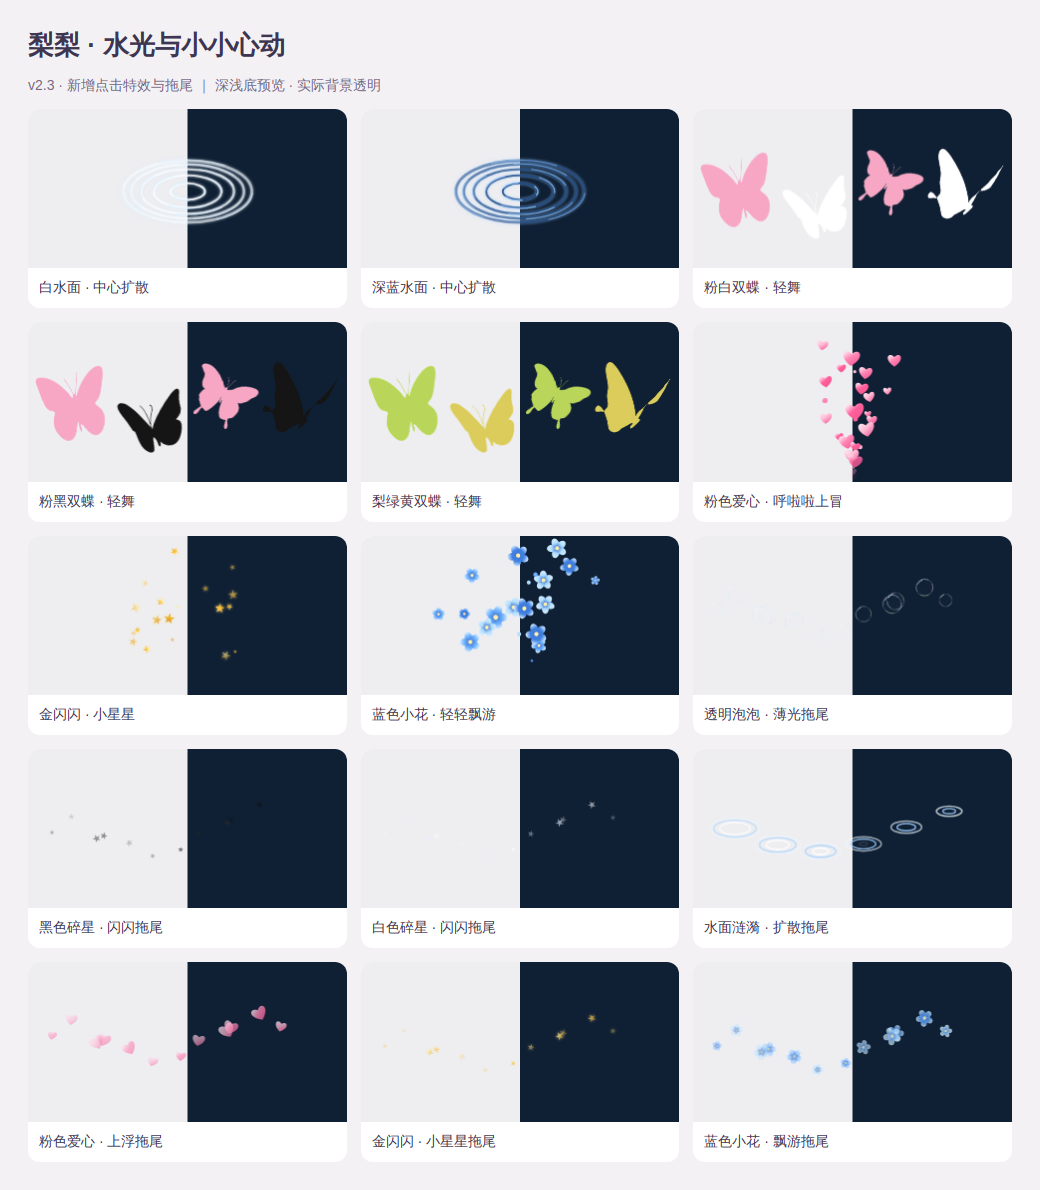
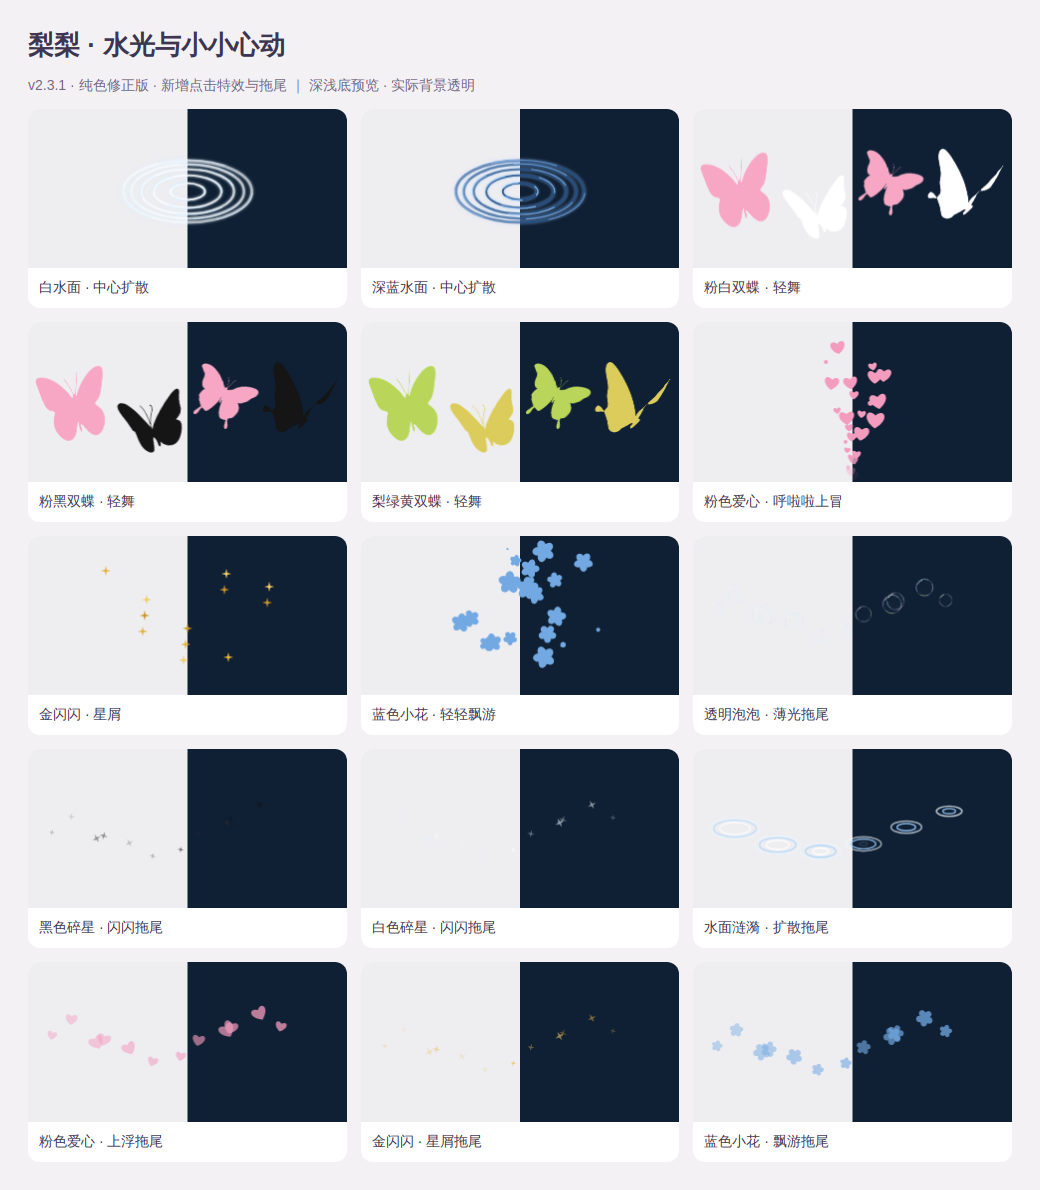
fix: use solid silhouettes and recolor original four-point stardust (v2.3.1)

diff --git a/index.js b/index.js
@@ -3,7 +3,7 @@ import { seasonalPacks } from './seasonal.js';
 import { createGroups } from './groups.js';
 import { ripplePacks, spawnRipples, drawRipple, spawnWaves, drawWave } from './ripples.js';
 
-import { ornamentPacks, ornamentTrails, motifFor, drawMotif, spawnOrnaments, drawOrnament, drawOrnamentTrail } from './ornaments.js';
+import { monochromeStars, drawStar, ornamentPacks, ornamentTrails, motifFor, drawMotif, spawnOrnaments, drawOrnament, drawOrnamentTrail } from './ornaments.js';
 
 function start() {
 
@@ -22,11 +22,11 @@ const packsDefault=[
  {id:'lili-stars',name:'星星糖霜',images:[ASSETS.spark1,ASSETS.spark2],colors:['#fffaf5','#ffd1d4'],count:6,size:23,duration:1100,spread:110,lift:45},
  {id:'lili-pixels',name:'粉白像素雨',images:[],colors:['#ffb7bf','#fff5ef','#f59fa8'],count:10,size:6,duration:900,spread:80,lift:35},
  {"id":"lili-mono","name":"黑白 · 像素碎片","images":[],"colors":["#171717","#ffffff","#999999"],"count":10,"size":7,"duration":1100,"spread":100,"lift":45,"shape":"square","glow":0},
- {"id":"lili-mono-stars","name":"黑白 · 星屑","images":[],"colors":["#171717","#ffffff","#bbbbbb"],"count":10,"size":10,"duration":1100,"spread":100,"lift":45,"shape":"star","glow":0},
+ monochromeStars,
  {"id":"lili-neon","name":"赛博 · 霓虹电光","images":[],"colors":["#00f5ff","#ff21d0","#aa55ff","#f5ff00"],"count":10,"size":7,"duration":1100,"spread":100,"lift":45,"shape":"diamond","glow":12},
  {"id":"lili-neon-stars","name":"赛博 · 星芒脉冲","images":[],"colors":["#ff18b8","#00ffff","#7b61ff"],"count":10,"size":12,"duration":1100,"spread":100,"lift":45,"shape":"star","glow":14},
- {"id":"lili-pear","name":"梨梨 · 甜梨派对","images":[],"colors":["#ffe66d","#a9dc65","#fff5bd"],"count":10,"size":25,"duration":1100,"spread":100,"lift":45,"shape":"square","glow":0,"emojis":["🍐","🍐","💛","💚","✨"]},
- {"id":"lili-pear-garden","name":"梨梨 · 青柠小花园","images":[],"colors":["#f5d84f","#80c75b","#dcf4ac"],"count":10,"size":25,"duration":1100,"spread":100,"lift":45,"shape":"square","glow":0,"emojis":["🍐","🍋","🌼","🍀","🌱","💚"]},
+ {"id":"lili-pear","name":"梨梨 · 甜梨派对","images":[],"colors":["#ffe66d","#a9dc65","#fff5bd"],"count":10,"size":25,"duration":1100,"spread":100,"lift":45,"shape":"square","glow":0,"motifs":["pear","pear","heart","heart","star"]},
+ {"id":"lili-pear-garden","name":"梨梨 · 青柠小花园","images":[],"colors":["#f5d84f","#80c75b","#dcf4ac"],"count":10,"size":25,"duration":1100,"spread":100,"lift":45,"shape":"square","glow":0,"motifs":["pear","leaf","flower","leaf","flower","heart"]},
  {"id":"lili-yellow-green","name":"黄绿 · 汽水泡泡","images":[],"colors":["#ffdc4f","#9ad95c","#fff3ad","#d1efa2"],"count":10,"size":8,"duration":1100,"spread":100,"lift":45,"shape":"circle","glow":0}
 , ...butterflyPacks, ...seasonalPacks, ...ripplePacks, ...ornamentPacks
 ];
@@ -38,6 +38,7 @@ function validatePack(p){
  const bounds={count:[1,40],size:[3,72],duration:[250,2500],spread:[10,220],lift:[0,180]};
  const v={id:typeof p.id==='string'&&/^[a-zA-Z0-9_-]{1,64}$/.test(p.id)?p.id:'custom-'+randSeed().toString(36),name:p.name.trim(),images:[...p.images],colors:[...p.colors]};
  if(p.emojis!==undefined){if(!Array.isArray(p.emojis)||p.emojis.length>12||p.emojis.some(e=>typeof e!=='string'||!e.trim()||[...e].length>16))throw Error('emoji 最多 12 项，每项最多 16 个字符。');v.emojis=[...p.emojis];}
+ if(p.motifs!==undefined){if(!Array.isArray(p.motifs)||!p.motifs.length||p.motifs.length>12||p.motifs.some(m=>!['pear','leaf','flower','heart','star'].includes(m)))throw Error('不支持的纯色图案。');v.motifs=[...p.motifs];}
  if(p.shape!==undefined){if(!['square','circle','diamond','star'].includes(p.shape))throw Error('不支持的粒子形状。');v.shape=p.shape;}
  if(p.motion!==undefined){if(!['flutter','fall','bubble','snow','music','ripple','wave','fountain','glitter','blossom'].includes(p.motion))throw Error('不支持的运动方式。');v.motion=p.motion;}
  if(p.paired!==undefined){if(typeof p.paired!=='boolean'||(p.paired&&(p.images.length<2||p.images.length%2)))throw Error('双蝶标记无效。');v.paired=p.paired;}
@@ -200,13 +201,14 @@ function drawHeart(x,y,size,color){ctx.fillStyle=color;const u=size/7;for(const 
 function drawParticle(p,size){
  ctx.fillStyle=p.color;ctx.shadowColor=p.color;ctx.shadowBlur=p.glow||0;
  if(p.shape==='circle'){ctx.beginPath();ctx.arc(0,0,size/2,0,Math.PI*2);ctx.fill();}
- else if(p.shape==='star'||p.shape==='diamond'){ctx.beginPath();const star=p.shape==='star',n=star?8:4;for(let i=0;i<n;i++){const a=i*Math.PI*2/n-Math.PI/2,r=size/2*(star&&i%2?.28:1);i?ctx.lineTo(Math.cos(a)*r,Math.sin(a)*r):ctx.moveTo(Math.cos(a)*r,Math.sin(a)*r);}ctx.closePath();ctx.fill();}
+ else if(p.shape==='star')drawStar(ctx,size);
+ else if(p.shape==='diamond'){ctx.beginPath();for(let i=0;i<4;i++){const a=i*Math.PI/2-Math.PI/2,r=size/2;i?ctx.lineTo(Math.cos(a)*r,Math.sin(a)*r):ctx.moveTo(Math.cos(a)*r,Math.sin(a)*r);}ctx.closePath();ctx.fill();}
  else ctx.fillRect(-size/2,-size/2,size,size);
  ctx.shadowBlur=0;
 }
 function frame(now){raf=0;if(stopped||!ctx)return;viewport();ctx.clearRect(0,0,cw,ch);particles=particles.filter(p=>now-p.start<p.duration);drawTrails(now);const spawned=[];
  for(const p of particles){if(p.kind==='ornament'){drawOrnament(ctx,p,now);continue;}if(p.kind==='wave'){drawWave(ctx,p,now);continue;}if(p.kind==='ripple'){drawRipple(ctx,p,now);continue;}if(p.kind==='symbol'){drawSymbol(p,now);continue;}if(p.kind==='flutter'||p.kind==='twinkle'){drawFlutter(p,now,spawned);continue;}if(p.kind==='petal'||p.kind==='dust'||p.kind==='bubble'||p.kind==='drop'){drawMore(p,now,spawned);continue;}const t=Math.max(0,(now-p.start)/p.duration),ease=1-Math.pow(1-t,3),x=p.x+p.dx*ease,y=p.y+p.dy*ease+12*t*t;ctx.save();ctx.translate(x,y);ctx.rotate(p.rotation*t);ctx.globalAlpha=Math.min(1,t/.08)*Math.pow(1-t,1.25);const size=p.size*(.6+Math.sin(Math.min(1,t*2)*Math.PI/2)*.4);
- if(p.texture?.ready)ctx.drawImage(p.texture.image,-size/2,-size/2,size,size);else if(p.emoji){ctx.font=`${size}px "Apple Color Emoji","Segoe UI Emoji","Noto Color Emoji",sans-serif`;ctx.textAlign='center';ctx.textBaseline='middle';ctx.fillText(p.emoji,0,0);}else if(p.kind==='heart')drawHeart(0,0,size,p.color);else{drawParticle(p,size);}ctx.restore();}
+ if(p.texture?.ready)ctx.drawImage(p.texture.image,-size/2,-size/2,size,size);else if(p.motif){drawMotif(ctx,p.motif,size,p.color);}else if(p.emoji){ctx.font=`${size}px "Apple Color Emoji","Segoe UI Emoji","Noto Color Emoji",sans-serif`;ctx.textAlign='center';ctx.textBaseline='middle';ctx.fillText(p.emoji,0,0);}else if(p.kind==='heart')drawHeart(0,0,size,p.color);else{drawParticle(p,size);}ctx.restore();}
  if(spawned.length)particles.push(...spawned.slice(0,Math.max(0,160-particles.length)));
  if(particles.length||trails.length)raf=host.requestAnimationFrame(frame);else{ctx.clearRect(0,0,cw,ch);try{layer.hidePopover();}catch{}}}
 function burst(x,y,target,force=false){
@@ -217,8 +219,9 @@ function burst(x,y,target,force=false){
  if(p.motion==='ripple'||p.motion==='wave'){particles.push(...(p.motion==='wave'?spawnWaves:spawnRipples)(p,x-rect.left,y-rect.top,num,now,prefs.scale,prefs.lightweight));particles=particles.slice(-160);if(!raf)raf=host.requestAnimationFrame(frame);updateStatus();return;}
  if(p.motion&&p.images.length){(p.motion==='fall'?spawnFall:p.motion==='bubble'?spawnBubble:p.motion==='snow'||p.motion==='music'?spawnSymbols:spawnFlutter)(p,x-rect.left,y-rect.top,num,now);particles=particles.slice(-160);if(!raf)raf=host.requestAnimationFrame(frame);updateStatus();return;}
  for(let i=0;i<num;i++){const angle=Math.random()*Math.PI*2,dist=p.spread*(.35+Math.random()*.65),hasImage=p.images.length&&i<Math.min(3,Math.ceil(num*.55)),tex=hasImage?loadImage(p.images[i===0||p.images.length===1?0:1+Math.floor(Math.random()*(p.images.length-1))]):null;
+ const motif=p.motifs?.length?p.motifs[i%p.motifs.length]:null;
  const emoji=p.emojis?.length&&i<Math.min(3,Math.ceil(num*.55))?p.emojis[Math.floor(Math.random()*p.emojis.length)]:null;
- particles.push({emoji,shape:p.shape,glow:prefs.lightweight?0:p.glow,x:x-rect.left,y:y-rect.top,dx:Math.cos(angle)*dist,dy:Math.sin(angle)*dist-p.lift,start:now,duration:p.duration*(.85+Math.random()*.3),size:(tex||emoji?p.size:p.images.length||p.emojis?.length?4+Math.random()*3:p.size)*prefs.scale,color:p.colors[i%p.colors.length],texture:tex,kind:tex?'heart':'dot',rotation:(Math.random()-.5)*1.2});}
+ particles.push({emoji,motif,shape:p.shape,glow:prefs.lightweight?0:p.glow,x:x-rect.left,y:y-rect.top,dx:Math.cos(angle)*dist,dy:Math.sin(angle)*dist-p.lift,start:now,duration:p.duration*(.85+Math.random()*.3),size:(tex||emoji||motif?p.size:p.images.length||p.emojis?.length?4+Math.random()*3:p.size)*prefs.scale,color:p.colors[i%p.colors.length],texture:tex,kind:tex?'heart':'dot',rotation:(Math.random()-.5)*1.2});}
  particles=particles.slice(-36);if(!raf)raf=host.requestAnimationFrame(frame);updateStatus();
 }
 function drawTrails(now){
@@ -269,6 +272,7 @@ function statusText(){const imgs=selected().images.map((src,i)=>loadImage(src,se
 function updateStatus(){const n=doc.querySelector('#lpx-status');if(n)n.textContent=statusText();}
 function motifPreview(motif,colors){const c=el('canvas');c.width=280;c.height=160;c.style.cssText='width:100%;height:100%;display:block';const cx=c.getContext('2d');for(let i=0;i<5;i++){cx.save();cx.translate(34+i*51,82+Math.sin(i*1.7)*25);if(motif==='wave'){drawWave(cx,{x:0,y:0,start:0,duration:1000,radius:27,scale:.65,colors,rings:3},550);}else drawMotif(cx,motif,motif==='bubble'?42:25,colors[i%colors.length],i);cx.restore();}return c;}
 function thumbnail(pack,interactive=false){const n=el(interactive?'button':'div','lpx-thumb');if(interactive){n.type='button';n.setAttribute('aria-label','预览并使用 '+pack.name);n.dataset.lpxPreview='true';}
+ if(pack.motifs?.length){n.classList.add('lpx-contrast');n.append(motifPreview(pack.motifs[0],pack.colors));return n;}
  if(motifFor(pack.motion)){n.classList.add('lpx-contrast');n.append(motifPreview(motifFor(pack.motion),pack.colors));return n;}
  if(pack.motion==='ripple'||pack.motion==='wave'){n.classList.add('lpx-ripple-thumb');n.style.setProperty('--ripple-color',pack.colors[0]);n.style.setProperty('--ripple-shine',pack.colors[1]);for(let i=0;i<3;i++){const ring=el('i','lpx-water-ring');ring.style.setProperty('--ring',i);n.append(ring);}return n;}
  if(pack.motion){n.classList.add('lpx-artwork','lpx-contrast');}
@@ -429,7 +433,7 @@ listen(doc,'visibilitychange',()=>{if(!doc.hidden)recoverEntries();else{particle
 listen(doc,'pointerdown',e=>{if(e.target?.closest?.('#extensionsMenuButton,#extensions-settings-button,#extensionsMenu,#extensions_settings,#extensions_settings2'))recoverEntries();},{capture:true,passive:true});
 listen(doc,'click',e=>{if(e.target?.closest?.('#extensionsMenuButton,#extensions-settings-button'))recoverEntries();},{capture:true,passive:true});
 function destroy(){if(stopped)return;stopped=true;clearTrail();particles=[];abort.abort();observer.disconnect();host.clearInterval(interval);timers.forEach(id=>host.clearTimeout(id));if(raf)host.cancelAnimationFrame(raf);if(scanFrame)host.cancelAnimationFrame(scanFrame);closeManager();layer.remove();sheet.remove();panelEntry?.remove();wandEntry?.remove();disposers.forEach(fn=>{try{fn();}catch{}});if(host[KEY]?.destroy===destroy)delete host[KEY];if(host.__liSparkling?.destroy===destroy){delete host.__liSparkling;host.dispatchEvent(new host.Event('li-sparkling:change'));}}
-host[KEY]={owner:'li-sparkling',apiVersion:1,version:'2.3.0',isAvailable:()=>!stopped,mount:container=>openManager('gallery',container),unmount:container=>{if(container&&manager?.parentElement===container)closeManager();},destroy,openManager,importPacks,renamePack,deletePack,exportPack:async()=>({format:'lili-click-effects',version:1,packs:[await portablePack(selected())]}),getDiagnostics:()=>({hits:totalHits,input:lastInput,particles:particles.length,trails:trails.length,trail:selectedTrail().id,trailEnabled:prefs.trailEnabled,canvasReady:!!ctx,theme:themeActive(),pack:selected().id,images:selected().images.map((s,i)=>({ready:loadImage(s,selected().hues?.[i]||0).ready,error:loadImage(s,selected().hues?.[i]||0).error}))})};
+host[KEY]={owner:'li-sparkling',apiVersion:1,version:'2.3.1',isAvailable:()=>!stopped,mount:container=>openManager('gallery',container),unmount:container=>{if(container&&manager?.parentElement===container)closeManager();},destroy,openManager,importPacks,renamePack,deletePack,exportPack:async()=>({format:'lili-click-effects',version:1,packs:[await portablePack(selected())]}),getDiagnostics:()=>({hits:totalHits,input:lastInput,particles:particles.length,trails:trails.length,trail:selectedTrail().id,trailEnabled:prefs.trailEnabled,canvasReady:!!ctx,theme:themeActive(),pack:selected().id,images:selected().images.map((s,i)=>({ready:loadImage(s,selected().hues?.[i]||0).ready,error:loadImage(s,selected().hues?.[i]||0).error}))})};
 host.__liSparkling=host[KEY];
 host.dispatchEvent(new host.Event('li-sparkling:change'));
 if(window!==host){

diff --git a/ornaments.js b/ornaments.js
@@ -1,27 +1,35 @@
 // Code-drawn artwork: transparent, resolution independent, no emoji substitution.
+export const monochromeStars = {id:'lili-mono-stars',name:'黑白 · 星屑',images:[],colors:['#171717','#ffffff','#bbbbbb'],count:10,size:10,duration:1100,spread:100,lift:45,shape:'star',glow:0};
+export function drawStar(ctx,size){
+ ctx.beginPath();for(let i=0;i<8;i++){const a=i*Math.PI/4-Math.PI/2,r=size/2*(i%2?.28:1);i?ctx.lineTo(Math.cos(a)*r,Math.sin(a)*r):ctx.moveTo(Math.cos(a)*r,Math.sin(a)*r);}ctx.closePath();ctx.fill();
+}
 export const ornamentPacks = [
- {id:'lili-heart-fountain',name:'粉色爱心 · 呼啦啦上冒',motion:'fountain',colors:['#ff87b5','#ffbad4','#ff5f9b'],size:22,lift:180,spread:75},
- {id:'lili-gold-stars',name:'金闪闪 · 小星星',motion:'glitter',colors:['#ffc83d','#ffed9b','#d99a20'],size:15,lift:55,spread:115},
- {id:'lili-blue-flowers',name:'蓝色小花 · 轻轻飘游',motion:'blossom',colors:['#6cafff','#b4dfff','#4383e5'],size:23,lift:65,spread:120},
+ {id:'lili-heart-fountain',name:'粉色爱心 · 呼啦啦上冒',motion:'fountain',colors:['#f49cbd'],size:22,lift:180,spread:75},
+ {id:'lili-blue-flowers',name:'蓝色小花 · 轻轻飘游',motion:'blossom',colors:['#72a9e2'],size:23,lift:65,spread:120},
 ].map(p=>({...p,images:[],count:12,duration:2300,shape:'star',glow:0}));
+// Exact recolor of the existing monochrome preset, including movement and size.
+ornamentPacks.splice(1,0,{...monochromeStars,id:'lili-gold-stars',name:'金闪闪 · 星屑',colors:['#e6b43e','#f4cc65','#c9952b']});
 export const ornamentTrails = [
  {id:'bubble',name:'透明泡泡 · 薄光拖尾',motif:'bubble',colors:['#c3edff','#ffd6ee','#fff3c6']},
  {id:'stars-black',name:'黑色碎星 · 闪闪拖尾',motif:'star',colors:['#111111','#292929','#080808']},
  {id:'stars-white',name:'白色碎星 · 闪闪拖尾',motif:'star',colors:['#ffffff','#e7efff','#ffffff']},
  {id:'water',name:'水面涟漪 · 扩散拖尾',motif:'wave',colors:['#edf8ff','#9ecfff','#ffffff']},
- {id:'hearts-pink',name:'粉色爱心 · 上浮拖尾',motif:'heart',colors:['#ff87b5','#ffbad4','#ff5f9b']},
- {id:'stars-gold',name:'金闪闪 · 小星星拖尾',motif:'gold',colors:['#ffc83d','#ffed9b','#d99a20']},
- {id:'flowers-blue',name:'蓝色小花 · 飘游拖尾',motif:'flower',colors:['#6cafff','#b4dfff','#4383e5']},
+ {id:'hearts-pink',name:'粉色爱心 · 上浮拖尾',motif:'heart',colors:['#f49cbd']},
+ {id:'stars-gold',name:'金闪闪 · 星屑拖尾',motif:'gold',colors:['#e6b43e','#f4cc65','#c9952b']},
+ {id:'flowers-blue',name:'蓝色小花 · 飘游拖尾',motif:'flower',colors:['#72a9e2']},
 ].map(p=>({...p,glow:0}));
 export const motifFor = motion => ({fountain:'heart',glitter:'gold',blossom:'flower'})[motion];
 export function drawMotif(ctx,motif,size,color,phase=0){
  ctx.save();ctx.scale(size/24,size/24);ctx.fillStyle=color;
  if(motif==='heart'){
-  const g=ctx.createLinearGradient(-6,-10,8,10);g.addColorStop(0,'#ffe1ed');g.addColorStop(.4,color);g.addColorStop(1,'#f45591');ctx.fillStyle=g;
   ctx.beginPath();ctx.moveTo(0,10);ctx.bezierCurveTo(-19,-2,-10,-16,0,-6);ctx.bezierCurveTo(10,-16,19,-2,0,10);ctx.fill();
  }else if(motif==='flower'){
-  for(let i=0;i<5;i++){ctx.save();ctx.rotate(i*Math.PI*2/5);const g=ctx.createLinearGradient(0,-12,0,0);g.addColorStop(0,'#d4eeff');g.addColorStop(.45,color);g.addColorStop(1,'#3e76ce');ctx.fillStyle=g;ctx.beginPath();ctx.ellipse(0,-6,4.4,6.2,0,0,Math.PI*2);ctx.fill();ctx.restore();}
-  ctx.fillStyle='#fff0b0';ctx.beginPath();ctx.arc(0,0,2.4,0,Math.PI*2);ctx.fill();
+  // Fill the entire flower once so translucent petals have no overlap seams.
+  ctx.beginPath();for(let i=0;i<5;i++){ctx.save();ctx.rotate(i*Math.PI*2/5);ctx.moveTo(4.6,-6);ctx.ellipse(0,-6,4.6,6,0,0,Math.PI*2);ctx.closePath();ctx.restore();}ctx.moveTo(4,0);ctx.arc(0,0,4,0,Math.PI*2);ctx.fill();
+ }else if(motif==='pear'){
+  ctx.beginPath();ctx.moveTo(0,-10);ctx.bezierCurveTo(-5,-11,-4,-3,-8,1);ctx.bezierCurveTo(-16,13,16,13,8,1);ctx.bezierCurveTo(4,-3,5,-11,0,-10);ctx.fill();
+ }else if(motif==='leaf'){
+  ctx.beginPath();ctx.moveTo(-10,9);ctx.bezierCurveTo(-12,-5,-2,-13,10,-10);ctx.bezierCurveTo(13,2,6,11,-10,9);ctx.fill();
  }else if(motif==='bubble'){
   // Almost empty center; separate faint film and bright, broken spectral arcs.
   const g=ctx.createRadialGradient(-4,-5,1,0,0,11);g.addColorStop(0,'#e4f8ff02');g.addColorStop(.85,'#d4efff04');g.addColorStop(1,'#d6ebff20');ctx.fillStyle=g;ctx.beginPath();ctx.arc(0,0,11,0,Math.PI*2);ctx.fill();
@@ -29,9 +37,7 @@ export function drawMotif(ctx,motif,size,color,phase=0){
   ['#aeeeffbb','#ffc3e699','#fff0b699','#d4c4ff99'].forEach((c,i)=>{ctx.strokeStyle=c;ctx.lineWidth=.8;ctx.beginPath();ctx.arc(0,0,10.6,i*1.57+phase,i*1.57+1+phase);ctx.stroke();});
   ctx.strokeStyle='#ffffffdd';ctx.lineWidth=1;ctx.beginPath();ctx.arc(-.4,-.4,9.3,3.55,4.45);ctx.stroke();
  }else{
-  ctx.beginPath();for(let i=0;i<10;i++){const a=i*Math.PI/5-Math.PI/2,r=i%2?4.2:11;ctx.lineTo(Math.cos(a)*r,Math.sin(a)*r);}ctx.closePath();
-  if(motif==='gold'){const g=ctx.createLinearGradient(-7,-10,6,10);g.addColorStop(0,'#fff6c0');g.addColorStop(.35,color);g.addColorStop(.7,'#f4b52b');g.addColorStop(1,'#b87d15');ctx.fillStyle=g;ctx.shadowColor='#ffe290';ctx.shadowBlur=3;}
-  ctx.fill();
+  drawStar(ctx,24);
  }ctx.restore();
 }
 export function spawnOrnaments(pack,x,y,amount,now,scale,lightweight){

diff --git a/groups.js b/groups.js
@@ -6,7 +6,7 @@ const defaults = [
  ['neon','霓虹'],['pear','梨梨与黄绿'],[ungrouped,'未分组'],
 ].map(([id,name])=>({id,name}));
 function automatic(pack){
- if(pack.motion==='glitter'||pack.id==='lili-mono-stars'||pack.id==='lili-stars')return 'stars';
+ if(pack.id==='lili-gold-stars'||pack.motion==='glitter'||pack.id==='lili-mono-stars'||pack.id==='lili-stars')return 'stars';
  if(pack.motion==='blossom')return 'flowers';
  if(pack.motion==='fountain')return 'hearts';
  if(pack.motion==='ripple'||pack.motion==='wave')return 'rain';

diff --git a/README.md b/README.md
@@ -1,6 +1,6 @@
 # 梨梨 · 点击与拖尾特效
 
-SillyTavern 原生前端扩展，版本 **2.3.0**。点击绽放小图案，滑动留下细细的拖尾；手机触屏和电脑鼠标都可用。
+SillyTavern 原生前端扩展，版本 **2.3.1**。点击绽放小图案，滑动留下细细的拖尾；手机触屏和电脑鼠标都可用。
 
 ## 安装
 
@@ -29,7 +29,7 @@ https://github.com/pear-winter/li-sparkling
 | 音符 | 黑、白两款；包含 ♩ ♪ ♫ ♬ ¶ ♯ ♭，轻轻上浮，伴随同色小粒子 |
 | 雨滴涟漪 | 白雨、深蓝雨；水滴落下、小水珠溅起、三圈椭圆水纹逐渐扩散；另有白色、深蓝色水面扩散，所有波圈固定以点击处为中心；深蓝带细蓝反光，在暗色背景也能看清 |
 | 虹彩泡泡 | 透明中心、薄薄的彩色反光和白色高光；大小不同，上浮、轻晃，破裂时散成小水珠 |
-| 爱心、星星与小花 | 粉色爱心分批向上涌、金色小星星闪烁、蓝色五瓣小花轻轻飘游，伴随细小粒子 |
+| 爱心、星星与小花 | 纯粉色实心爱心分批向上涌、黑白星屑原样换成金色、纯蓝色实心五瓣小花轻轻飘游，伴随细小粒子 |
 | 原有 10 组 | 奶油爱心、星星糖霜、粉白像素、黑白碎片与星屑、霓虹、梨梨黄绿等 |
 | 拖尾 | 奶油粉白、赛博霓虹、黑白银线、黄绿糖丝、蓝紫极光；新增透明薄光泡泡、黑色碎星、白色碎星、水面涟漪、粉色爱心、金色小星星、蓝色小花 |
 
@@ -91,6 +91,12 @@ python3 scripts/generate-seasonal.py
 以上命令重新生成本项目原创的季节/音符 SVG 及 `seasonal.js`；不修改蝴蝶素材。
 
 这些自动检查使用模拟酒馆页面，不能替代每一种酒馆版本、手机 WebView 和第三方主题下的实际使用验证。
+
+## 2.3.1 更新
+
+- 金色星屑直接复用黑白星屑的四尖星形、大小和运动，仅更换颜色；金色拖尾使用相同星形。
+- 爱心与蓝色小花的点击、拖尾统一改为纯色实心，无渐变、高光、描边或异色花心。
+- 内置梨梨两款特效也改用绘制图形；所有内置效果均不依赖 emoji。保留用户已导入素材的兼容性。
 
 ## 2.3.0 更新
 
